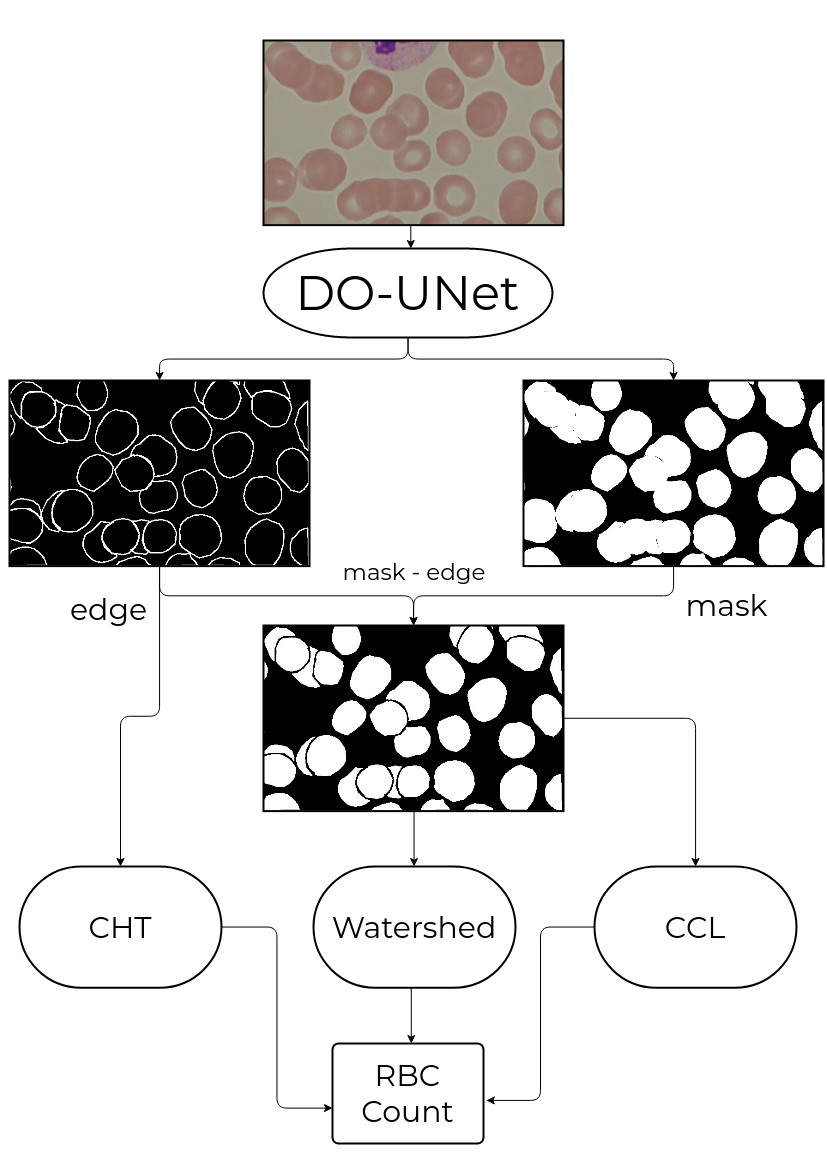
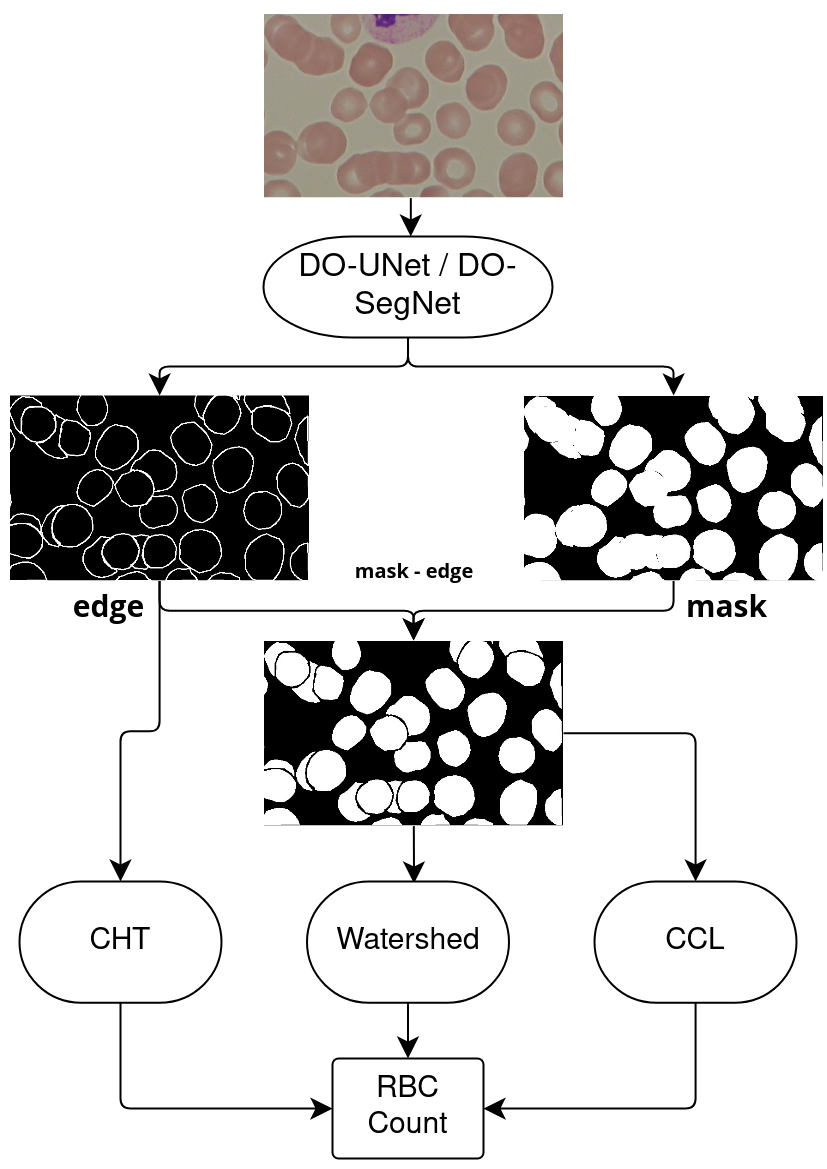
modified the two schemes and added todo

diff --git a/TODO.md b/TODO.md
@@ -13,9 +13,10 @@
 - [x] Chapter 6 result images, maybe another schema
 - [x] Chapter 6 Conclusion
 - [ ] Fix bibliography page style
-- [ ] Add which type of blood cells they are segmenting in the comparative study table in state of art chapter.
+- [x] Add which type of blood cells they are segmenting in the comparative study table in state of art chapter.
 - [x] Fix margins
-- [ ] Fix schemes add do-unet/segnet in the first and platelets in the second
-- [ ] Add refrences
+- [x] Fix schemes add do-unet/segnet in the first and platelets in the second
+- [x] Add refrences
 - [ ] Explain more about color space problem and the combinations between masks and edges in the future work  of conclusion
-- [ ] Add comparative table of do-unet and segnet
+- [x] Add comparative table of do-unet and segnet
+- [ ] Add predictions of unet and segnet
